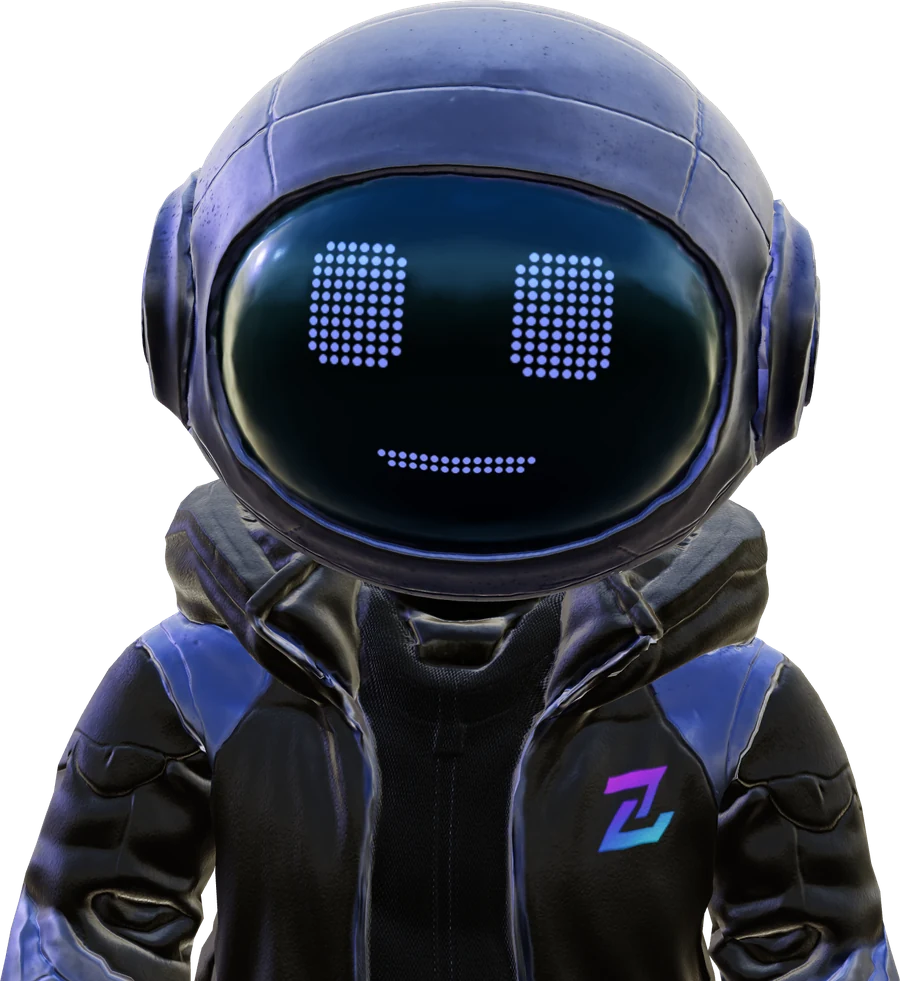
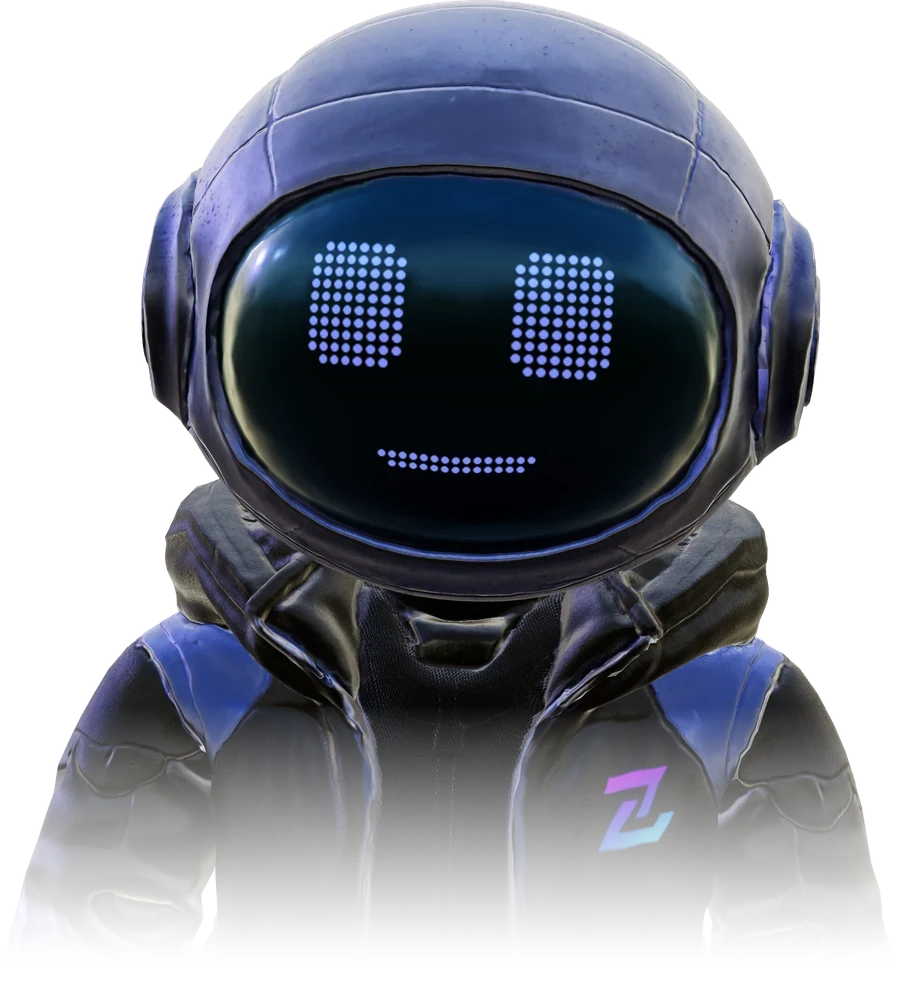
feat(site): the character's face is live — it looks toward the pointer, blinks, and thinks
The visor is blank in the render (the LEDs inpainted from the visor
around them) and the face is drawn on a canvas over it in the
character's own dot grid: two 8×10 blocks and a 13-dot line, 12 px
pitch, measured from the render. The eyes shift toward the pointer —
attention, not drift, the same rule the app's gaze followed — blink now
and then, and while the demo is working they carry the thinking wave
and the rings speed up. The rest face is the flat line, as in the
product. Without the script the plain render stands in.

The lower edge fades in the image's own alpha rather than by CSS mask,
which painted a faint box around the layer in some compositors. The
section's scene gets a quiet vignette and the star field stays inside it.

Changed region(s): [[0.0, 0.7339, 1.0, 1.0]]

diff --git a/site/site.js b/site/site.js
@@ -376,6 +376,8 @@ function armScene() {
   }
 
   const stars = armStars(scene.querySelector('[data-role="stars"]'));
+  const face = armFace(scene.querySelector('[data-role="avatar-face"]'), scene.querySelector('[data-role="avatar-img"]'));
+  const stage = scene.querySelector('[data-role="orb-stage"]');
 
   function tick() {
     raf = 0;
@@ -385,10 +387,93 @@ function armScene() {
     scene.style.setProperty("--my", my.toFixed(4));
     scene.style.setProperty("--sy", sy.toFixed(1));
     if (stars) stars(mx, my);
+    if (face) face(mx, my, !!(stage && stage.classList.contains("is-working")));
     if (visible && !document.hidden) raf = requestAnimationFrame(tick);
   }
   document.addEventListener("visibilitychange", () => { if (!document.hidden && visible && !raf) tick(); });
   tick();
+}
+
+/** The character's face, drawn live on the visor.
+ *
+ *  The product's face is a dot-matrix display driven by texture cells; this
+ *  is the same face in the same grid, drawn on a canvas over a render whose
+ *  visor is blank. It does three things the still cannot: the eyes look
+ *  toward the pointer (attention, not drift — the head already leans the
+ *  same way), it blinks now and then, and while the demo is working the eyes
+ *  become the thinking pattern the app uses. The rest face is the flat line,
+ *  as in the product: a mascot may smile on the site, but this is the
+ *  embodiment and it reports state.
+ *
+ *  Geometry is measured from the render (900×981): two 8×10 dot blocks and
+ *  a 13-dot line, 12 px pitch, on a head turned a few degrees so the right
+ *  eye sits a little lower. Returns the per-frame draw, or null. */
+function armFace(canvas, img) {
+  if (!canvas || !img) return null;
+  const ctx = canvas.getContext("2d");
+  if (!ctx) return null;
+
+  // Swap in the blank-visor render; if it fails to load, keep the still.
+  const blank = new Image();
+  blank.decoding = "async";
+  blank.onload = () => { img.src = "img/avatar-blank.webp"; canvas.hidden = false; };
+  blank.src = "img/avatar-blank.webp";
+
+  const PITCH = 12, R = 4.6;
+  const LEFT = { x: 316, y: 249 };      // top-left dot centres
+  const RIGHT = { x: 522, y: 260 };
+  const MOUTH = { x: 385, y: 461, n: 13 };
+  const COLS = 8, ROWS = 10;
+  const COLOUR = "196,205,255";
+
+  let blinkAt = performance.now() + 2600 + Math.random() * 3000;
+  let blinking = 0;                    // 0 open … 1 shut
+  let t0 = performance.now();
+
+  function dot(x, y, a, r = R) {
+    ctx.fillStyle = `rgba(${COLOUR},${a})`;
+    ctx.beginPath(); ctx.arc(x, y, r, 0, Math.PI * 2); ctx.fill();
+  }
+
+  /** One eye: a rounded block of dots, shifted toward the gaze, its rows
+   *  collapsing toward the middle on a blink. */
+  function eye(origin, gx, gy, shut, now, thinking) {
+    const dx = Math.round(gx * 1.6), dy = Math.round(gy * 1.2);   // in dots
+    const open = Math.max(1, Math.round(ROWS * (1 - shut)));
+    const top = Math.floor((ROWS - open) / 2);
+    for (let c = 0; c < COLS; c++) {
+      for (let r = 0; r < ROWS; r++) {
+        // rounded corners: skip the four corner dots
+        const corner = (c === 0 || c === COLS - 1) && (r === 0 || r === ROWS - 1);
+        if (corner) continue;
+        if (r < top || r >= top + open) continue;
+        let a = 0.92;
+        if (thinking) {
+          // a soft wave travelling across the block, the app's "working" face
+          const phase = (now - t0) / 380 - c * 0.55 - r * 0.12;
+          a = 0.28 + 0.62 * (0.5 + 0.5 * Math.sin(phase));
+        }
+        dot(origin.x + (c + dx) * PITCH, origin.y + (r + dy) * PITCH, a);
+      }
+    }
+  }
+
+  return function draw(mx, my, thinking) {
+    const now = performance.now();
+    if (now > blinkAt) {
+      const k = (now - blinkAt) / 140;               // 140 ms down, 140 up
+      blinking = k < 1 ? k : k < 2 ? 2 - k : 0;
+      if (k >= 2) { blinkAt = now + 2600 + Math.random() * 4200; blinking = 0; }
+    }
+    ctx.clearRect(0, 0, canvas.width, canvas.height);
+    ctx.shadowColor = `rgba(${COLOUR},0.55)`; ctx.shadowBlur = 6;
+    eye(LEFT, mx, my, blinking, now, thinking);
+    eye(RIGHT, mx, my, blinking, now, thinking);
+    // the mouth: the flat line at rest; a slightly wider one while thinking
+    const n = thinking ? MOUTH.n - 2 : MOUTH.n;
+    const x0 = MOUTH.x + ((MOUTH.n - n) / 2) * PITCH;
+    for (let i = 0; i < n; i++) dot(x0 + i * PITCH, MOUTH.y, 0.85, R - 0.6);
+  };
 }
 
 /** A field of slow points with depth, on a canvas. About a hundred and

diff --git a/site/styles.css b/site/styles.css
@@ -696,6 +696,16 @@ main { overflow-x: clip; }
   transform: rotateY(calc(var(--mx) * 10deg)) rotateX(calc(var(--my) * -7deg));
   transition: transform .18s ease-out;
 }
+/* The character's lower edge dissolves rather than ends: the render is
+   head-and-shoulders, and a hard line at the chest reads as a crop. The fade
+   is baked into the image's alpha rather than applied as a CSS mask, which
+   painted a faint box around the layer in some compositors. */
+.scene .avatar-face {
+  position: absolute; inset: 0; width: 100%; height: auto; aspect-ratio: 900 / 981;
+  pointer-events: none;
+  animation: hover 6.5s ease-in-out infinite;
+  transform: translateZ(41px);
+}
 .scene .avatar-img {
   display: block; width: 100%; height: auto;
   filter: drop-shadow(0 30px 40px rgba(0,0,0,.65)) drop-shadow(0 0 48px rgba(129,140,248,.28));
@@ -736,6 +746,13 @@ main { overflow-x: clip; }
 .embodiment .scene .orb-layer { left: 0; top: 4%; width: 48%; }
 .embodiment .scene .avatar-layer { right: 0; bottom: -4%; width: 46%; }
 .embodiment .scene .floor { display: none; }
+.embodiment .scene::before {
+  content: ""; position: absolute; inset: -6% -4%;
+  border-radius: 28px;
+  background: radial-gradient(60% 60% at 50% 55%, rgba(139,127,212,.10), transparent 70%);
+  pointer-events: none;
+}
+.embodiment .scene .stars { inset: 0; width: 100%; height: 100%; }
 .embodiment .scene .orb-state { white-space: nowrap; font-size: .78rem; }
 @media (max-width: 860px) {
   .embodiment .scene { height: clamp(300px, 80vw, 400px); margin-top: 8px; }
@@ -793,7 +810,7 @@ main { overflow-x: clip; }
 .js .reveal.tilt.in { transform: perspective(900px) rotateX(var(--rx)) rotateY(var(--ry)); }
 
 @media (prefers-reduced-motion: reduce) {
-  .scene .floor, .scene .ring, .scene .avatar-img, .scene .avatar-layer::after { animation: none; }
+  .scene .floor, .scene .ring, .scene .avatar-img, .scene .avatar-face, .scene .avatar-layer::after { animation: none; }
   .scene .layer, .scene .nebula, .scene .floor, .scene .avatar-tilt, .tilt { transform: none !important; transition: none; }
   .scene .floor { transform: perspective(700px) rotateX(72deg) !important; }
   .scene .r1 { transform: rotateX(72deg) !important; }

diff --git a/site/index.html b/site/index.html
@@ -185,8 +185,13 @@
       </div>
       <div class="layer avatar-layer" style="--d:.9">
         <div class="avatar-tilt" data-role="avatar">
+          <!-- The visor is blank in the image; the face is drawn on the
+               canvas over it, in the character's own dot grid, so it can
+               look where the pointer is, blink, and think when the demo
+               does. No script, no face: the plain render stands in. -->
           <img class="avatar-img" src="img/avatar.webp" width="900" height="981"
-               alt="" loading="eager" decoding="async">
+               alt="" loading="eager" decoding="async" data-role="avatar-img">
+          <canvas class="avatar-face" data-role="avatar-face" width="900" height="981" hidden></canvas>
         </div>
       </div>
     </div>
